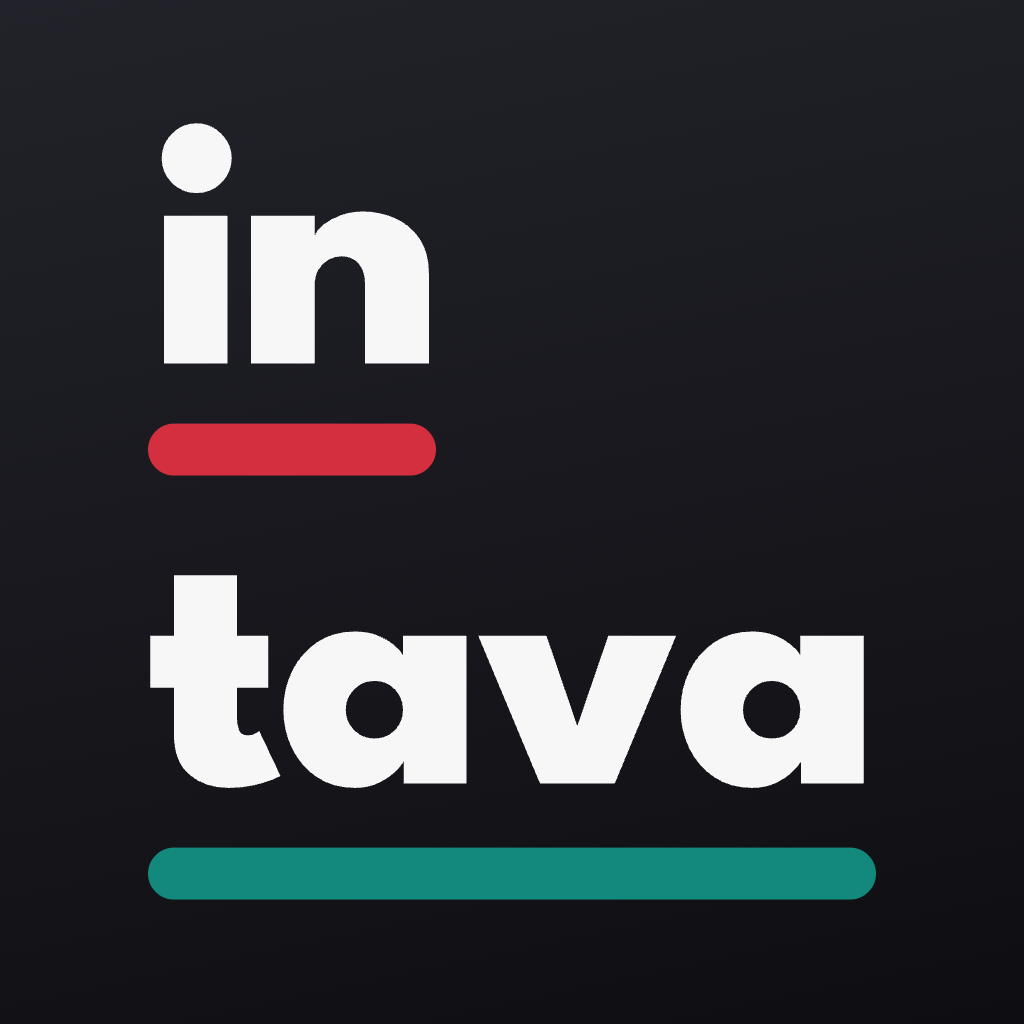
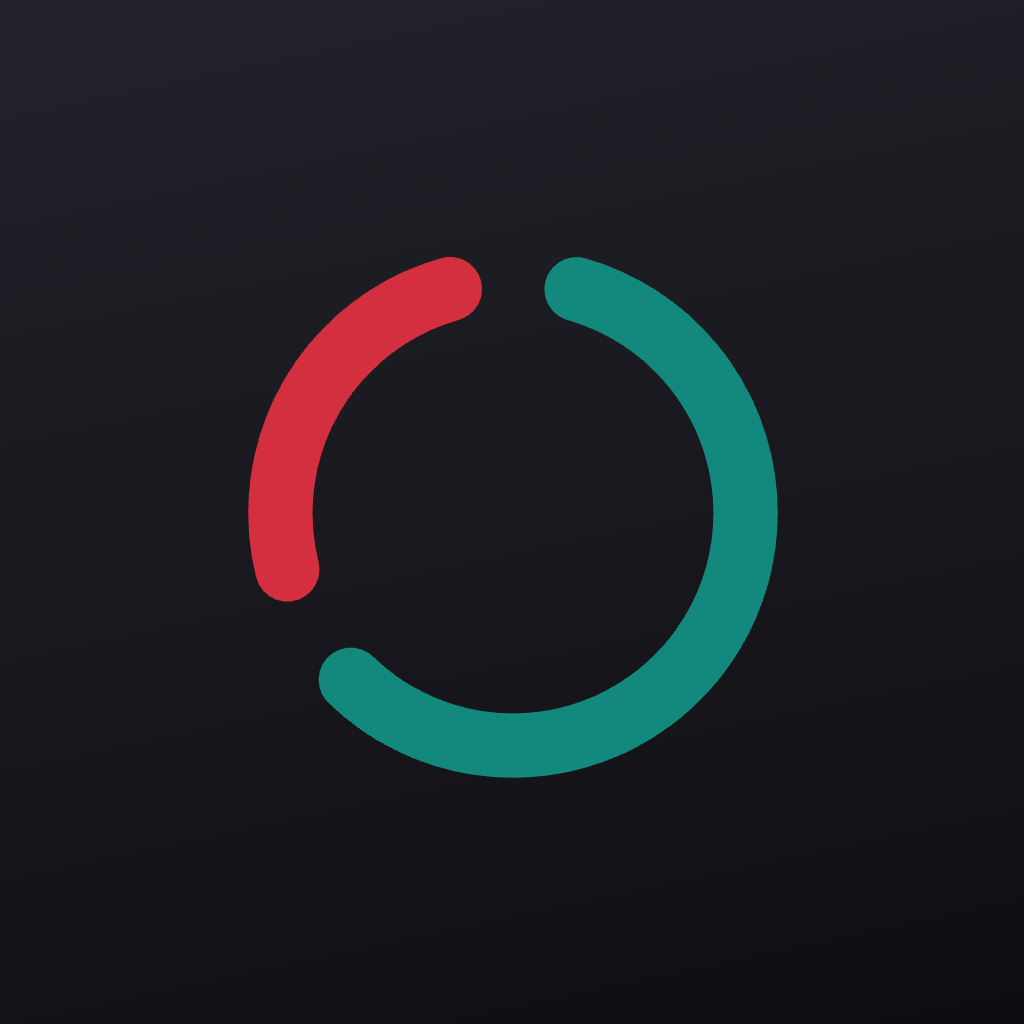
새 로고로 교체 — 끊긴 링 심볼
시안의 PNG를 그대로 넣었다. 잠금형 비율이 1224×500에서 938×360으로 바뀌어
Wordmark의 세로 비율도 함께 고쳤다.

최소 가로 크기는 88 → 116. 가이드가 심볼 28px 아래에서는 이음매 틈이
안티에일리어싱으로 메워져 하나의 링으로 보인다고 못 박았고, 잠금형 안에서 링이
가로폭의 24.3%를 차지하니 28 / 0.243 ≈ 116이 하한이다. 쓰는 두 곳(홈 118,
스플래시 200)은 그 위에 있다.

안드로이드 두 겹은 심볼을 타일 폭의 58%(아이콘 규격)로 두고 나머지를 투명으로
채워 만들었다. 바탕은 adaptiveIcon.backgroundColor가 맡는다.

Changed region(s): [[0.125, 0.125, 0.8438, 0.7812], [0.125, 0.8125, 0.875, 0.9062]]

diff --git a/src/components/Wordmark.tsx b/src/components/Wordmark.tsx
@@ -1,12 +1,12 @@
 /**
- * intava 워드마크 — 디자이너가 낸 PNG를 그대로 쓴다.
+ * intava 가로 잠금형 — 끊긴 링 심볼 + 글자. 디자이너가 낸 PNG를 그대로 쓴다.
  *
  * SVG 원본은 글자가 아직 <text>(League Spartan 800)라 앱에서 폰트로 다시
- * 그려야 하는데, 그러면 자간·막대 위치가 원본과 미세하게 어긋난다.
+ * 그려야 하는데, 그러면 자간이 원본과 미세하게 어긋난다.
  * 시안과 한 픽셀도 다르지 않아야 하는 자리라 래스터를 쓴다.
  *
- * 가이드가 금지한 것: 대문자, 막대 길이·위치 조정, 기울임·그림자,
- * 글자와 막대 사이 벌리기. 크기만 바꿔 쓴다.
+ * 가이드가 금지한 것: 두 호의 비율(240°/120°) 변경, 이음매 틈 메우기,
+ * 링 회전, 링에 그라디언트, 글자에 색 넣기. 크기만 바꿔 쓴다.
  */
 import React from 'react';
 import { Image, type ImageStyle, type StyleProp } from 'react-native';
@@ -18,10 +18,15 @@ const SRC = {
   white: require('../../assets/logo/lockup-white.png'),
 };
 
-/** 원본 1224 × 500 */
-export const WORDMARK_RATIO = 500 / 1224;
-/** 가이드가 정한 최소 가로 크기 — 이보다 작으면 tava가 뭉개진다 */
-export const WORDMARK_MIN_WIDTH = 88;
+/** 원본 938 × 360 */
+export const WORDMARK_RATIO = 360 / 938;
+/**
+ * 최소 가로 크기.
+ * 가이드는 심볼이 28px 아래로 내려가면 이음매 틈이 안티에일리어싱으로 메워져
+ * 하나의 링으로 보인다고 못 박았다. 잠금형 안에서 링이 가로폭의 24.3%를
+ * 차지하므로 28 / 0.243 ≈ 116이 하한이다.
+ */
+export const WORDMARK_MIN_WIDTH = 116;
 
 type Props = {
   /** 가로 크기(px). 세로는 비율로 따라온다 */
